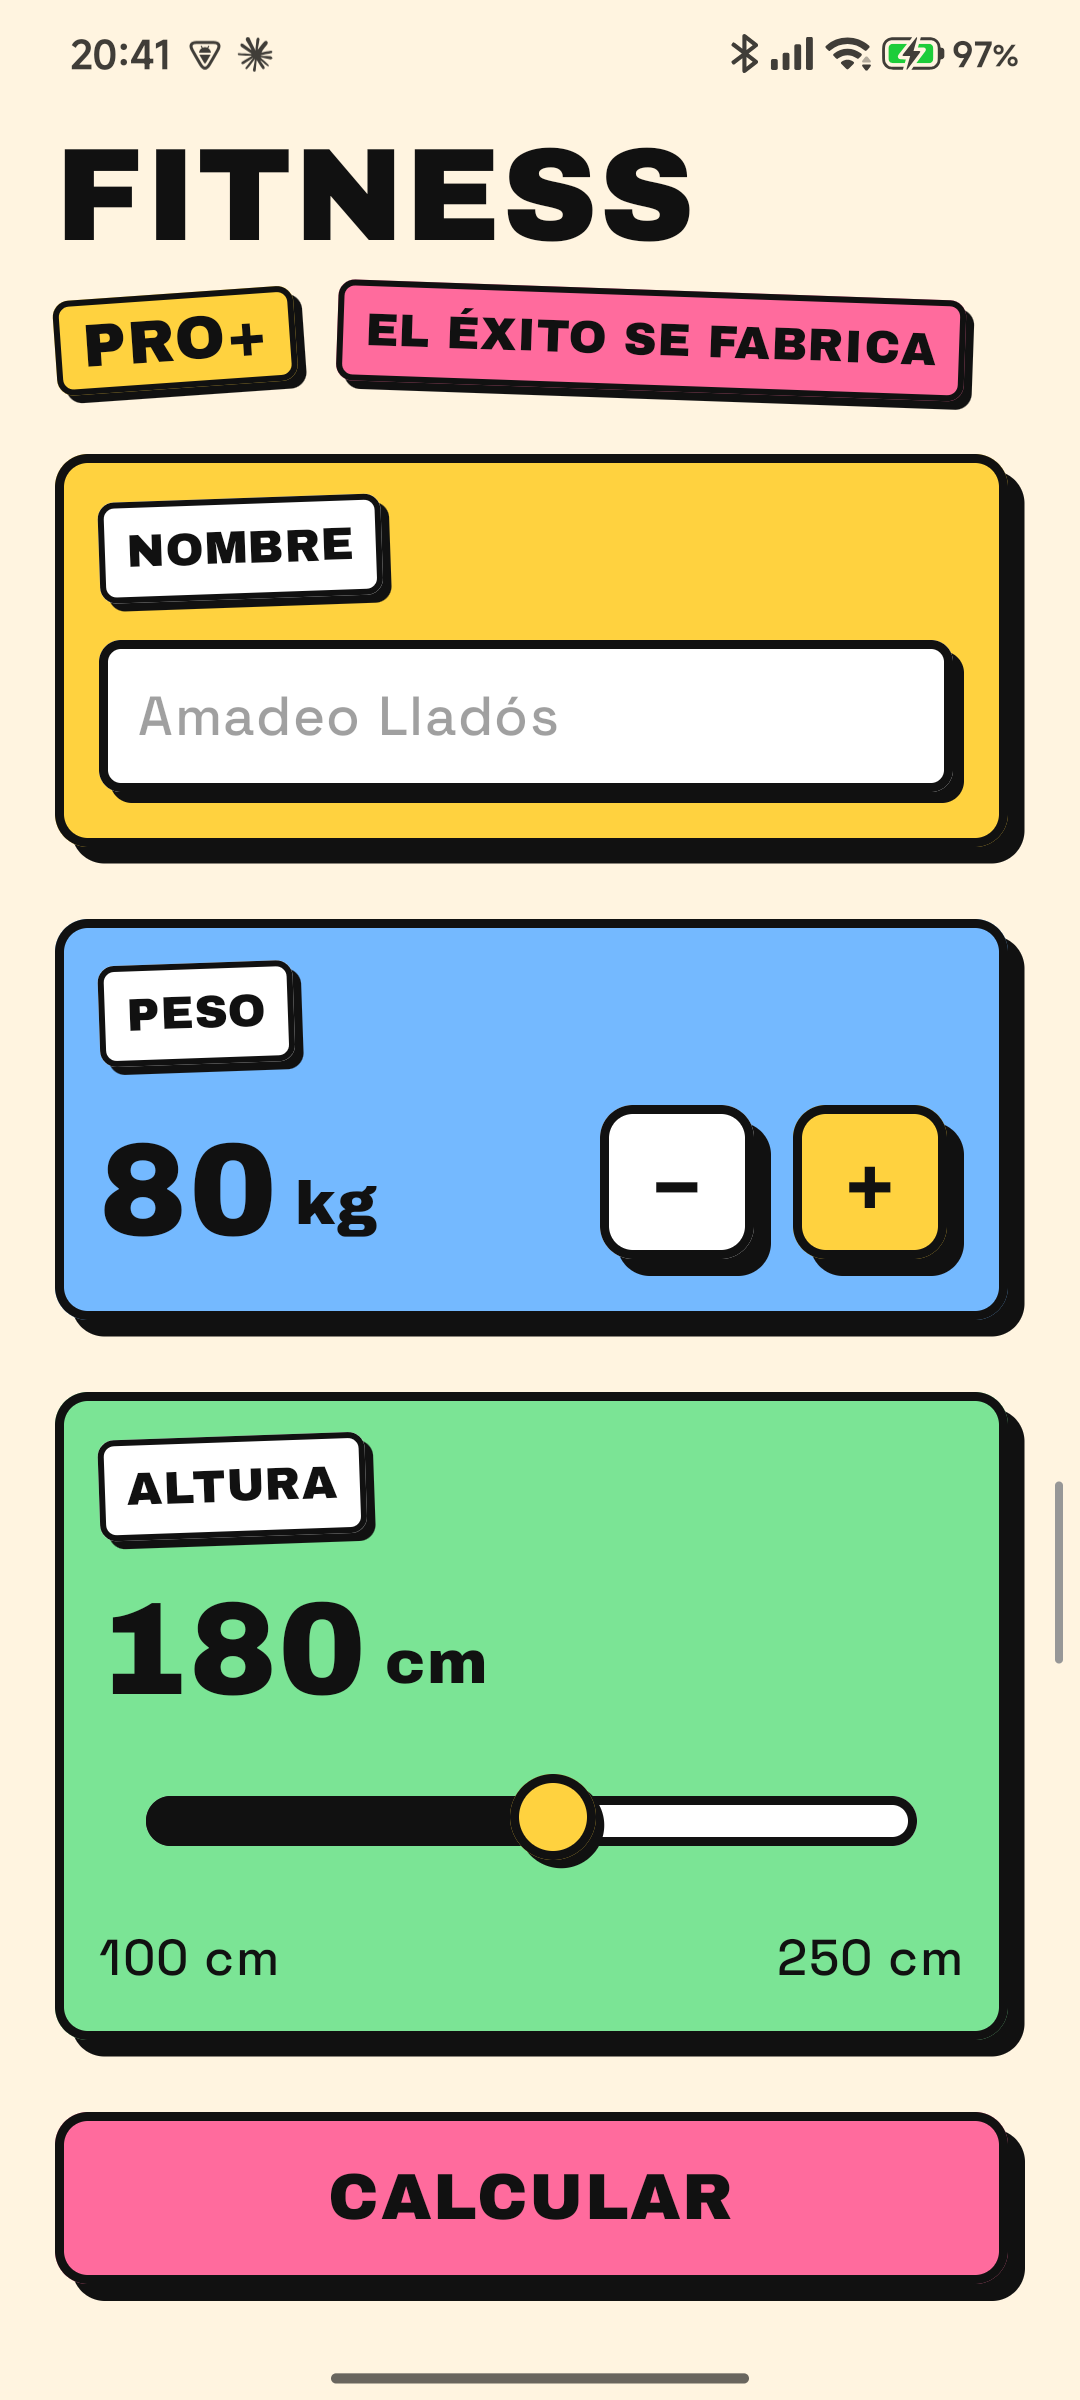
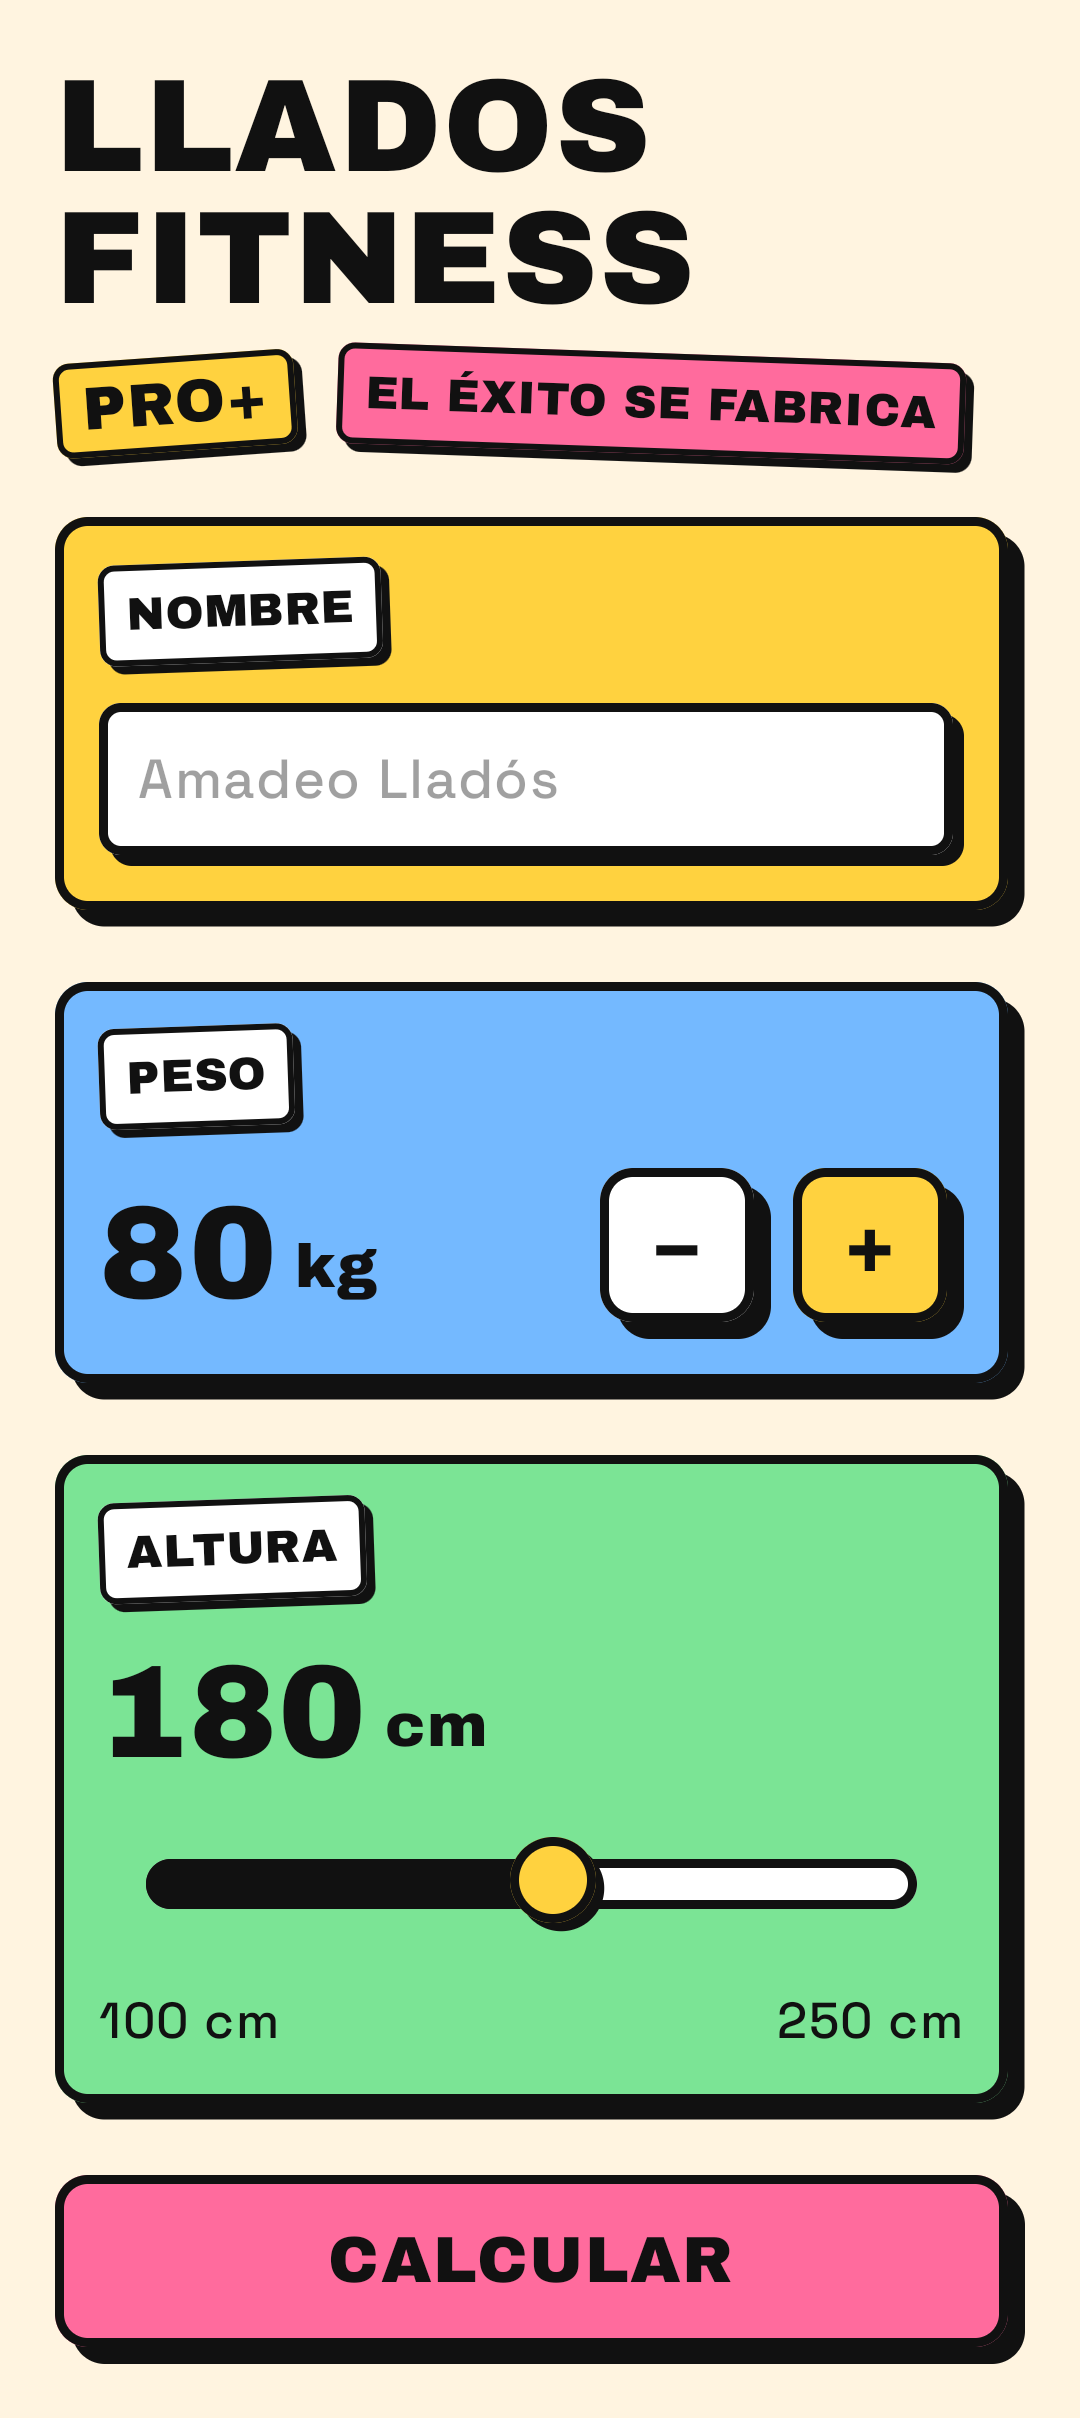
Full-length screenshots without status bar

diff --git a/README.md b/README.md
@@ -6,14 +6,3 @@ Simple body mass index (BMI) calculator themed by the scammer character and cont
 | Home | Normal weight | Obesity |
 |---|---|---|
 | ![Home](docs/screenshots/01-home.png) | ![Normal weight](docs/screenshots/02-result.png) | ![Obesity](docs/screenshots/03-obesity.png) |
-
-## Branches
-
-- `master`: initial working version of the BMI calculator with the basic interface.
-- `UI-bonica`: visual redesign in neo-brutalism style (bold fonts, thick black borders, hard shadows, flat colors, BMI color scale and pressable buttons).
-
-## Technologies
-
-- Kotlin
-- Jetpack Compose (Material 3, state management, custom modifiers and components, animations, Google Fonts)
-- Android Studio / Gradle
